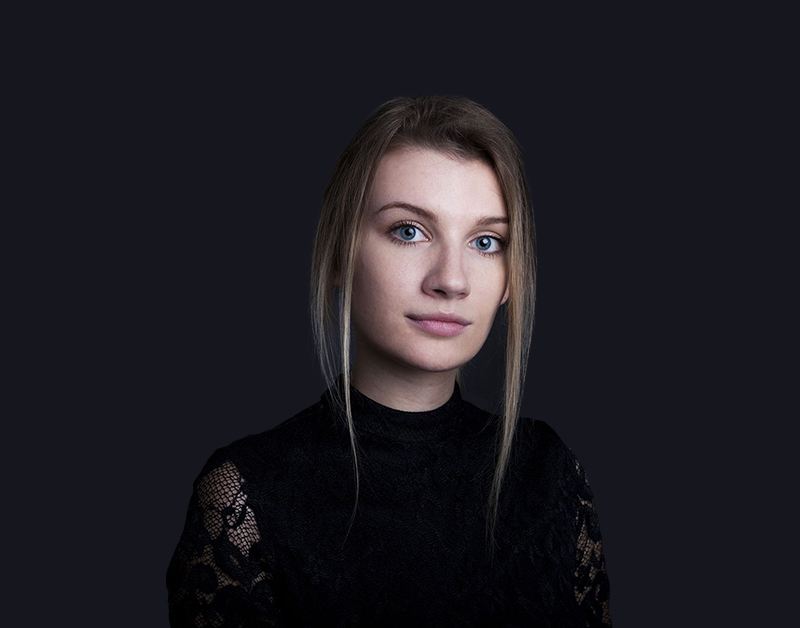
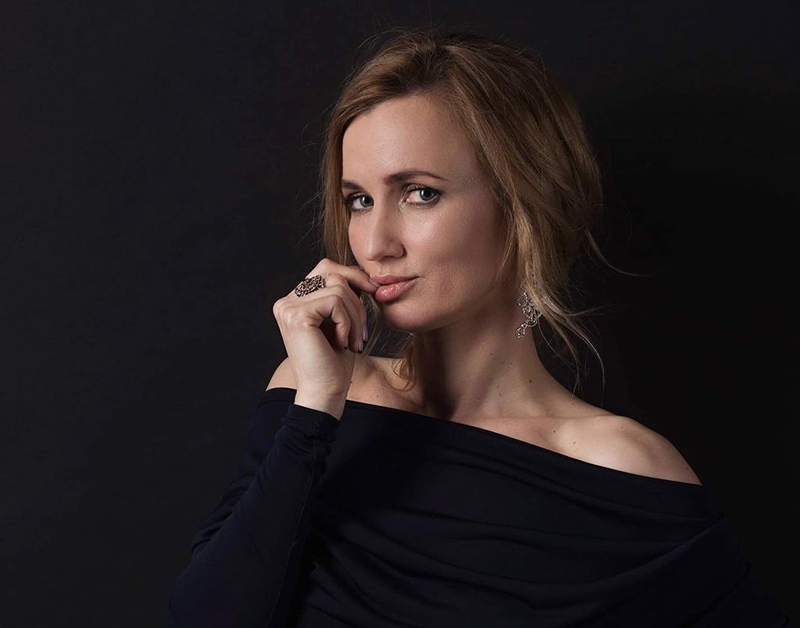
changed photos

diff --git a/index.html b/index.html
@@ -89,8 +89,8 @@
                 <img src="assets/img/home-img.png" alt="" class="home__img">
 
                 <div class="home__data">
-                    <h1 class="home__title">Hi, I'am Mariam</h1>
-                    <h3 class="home__subtitle">Frontend developer</h3>
+                    <h1 class="home__title">Hi, I'am Liubov</h1>
+                    <h3 class="home__subtitle">Lawyer</h3>
                     <p class="home__description">High level experience in web design and development knowledge,
                         producing quality work.</p>
                     <a  class="button"><i class="uil uil-user button__icon"></i>

diff --git a/assets/css/style.css b/assets/css/style.css
@@ -262,7 +262,7 @@ input {
 
 /*===== Home Section =====*/
 .home {
-    /* background: url('../img/home-bg.jpg'); */
+    background: url('../img/home-bg.jpg');
     background-size: cover;
     background-position: center center;
     height: 100vh;
